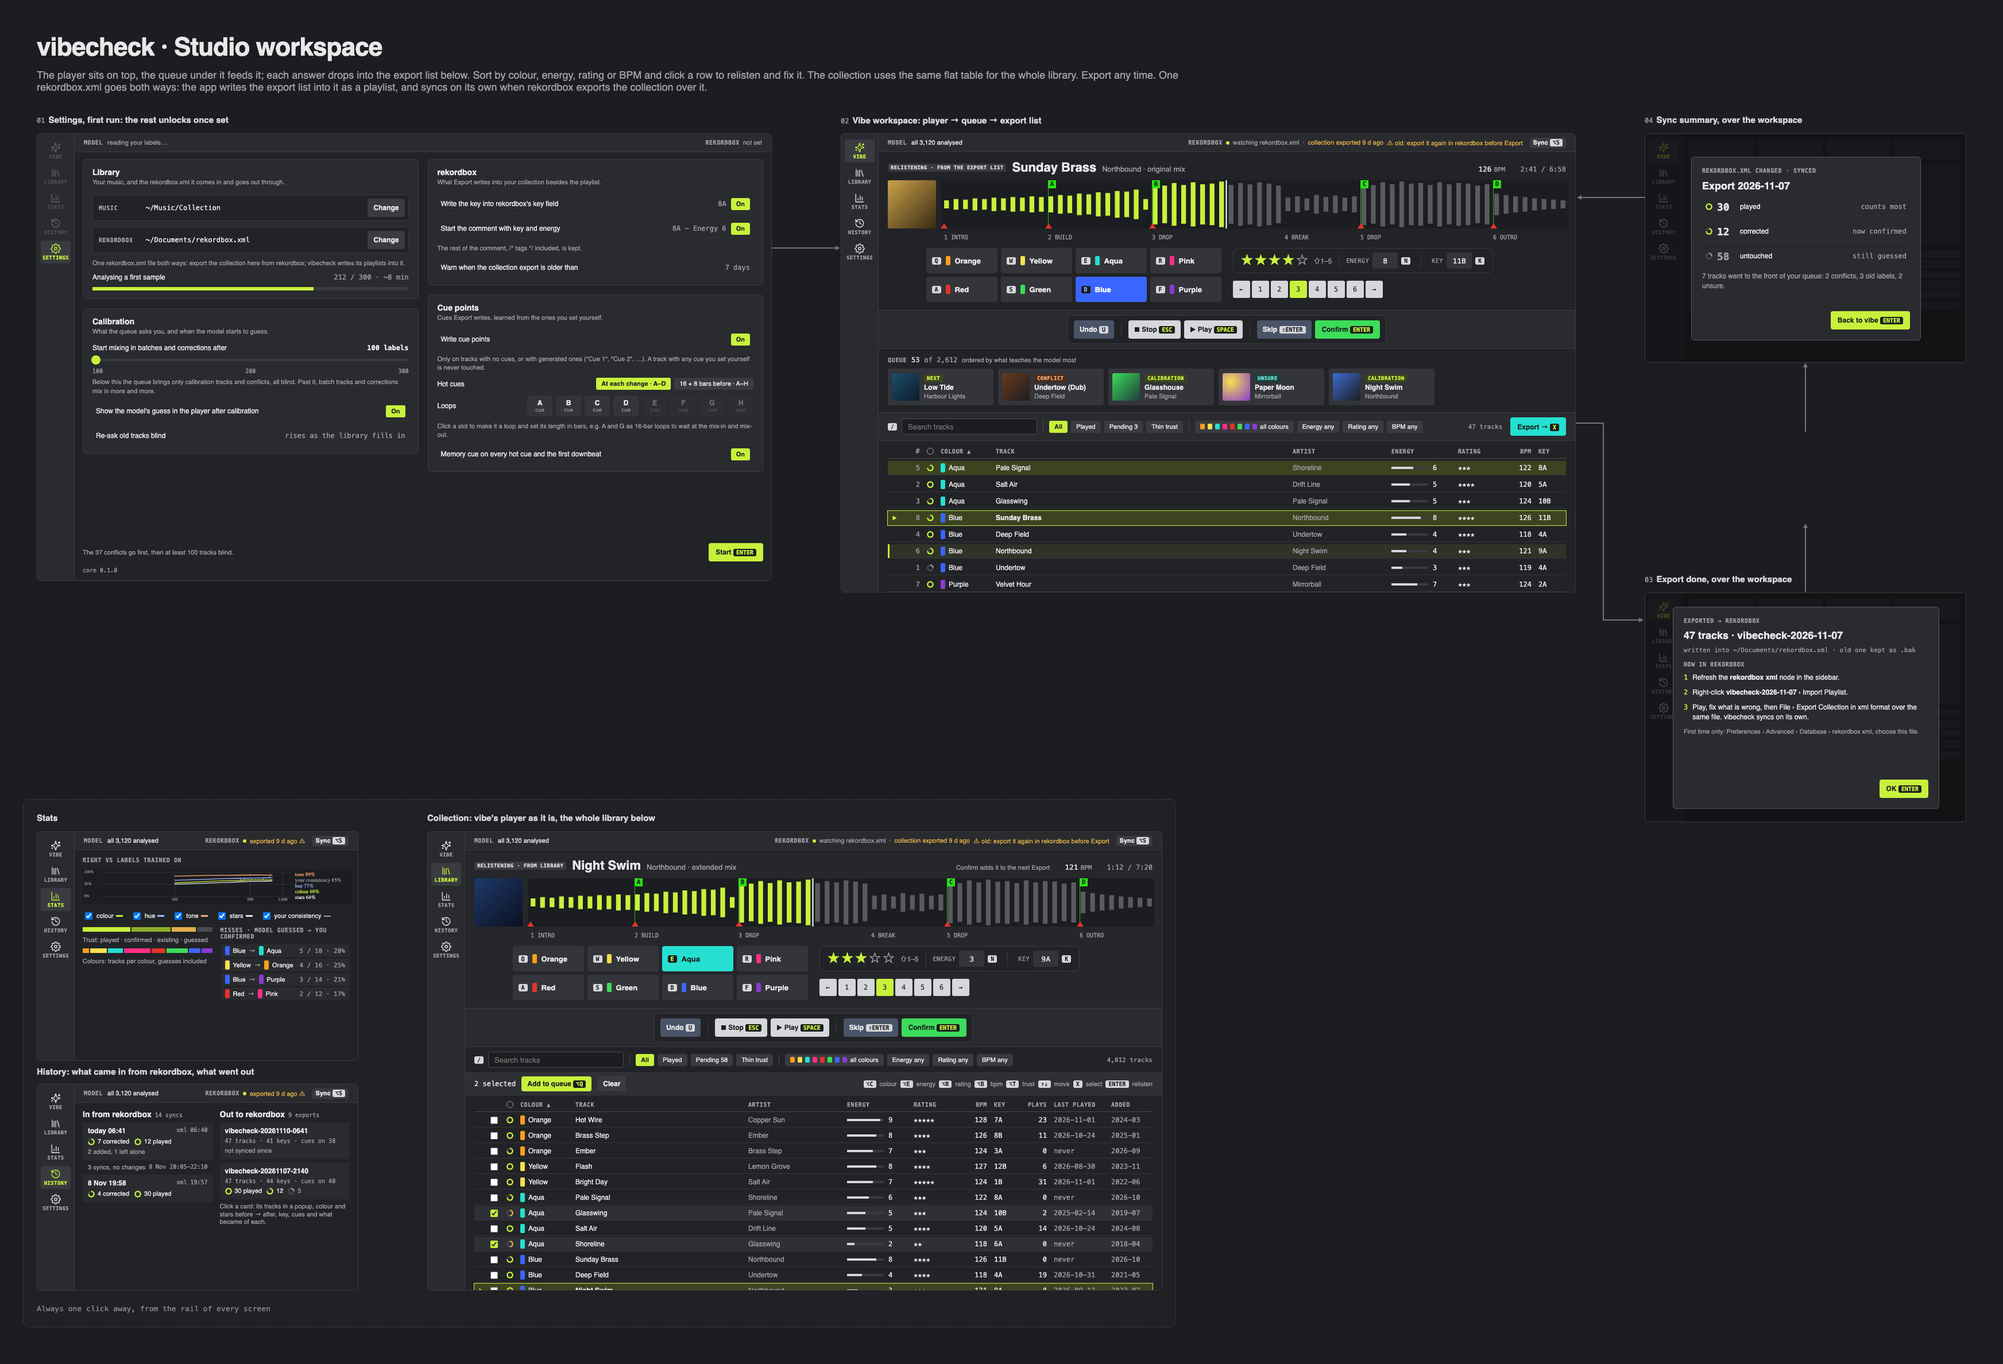
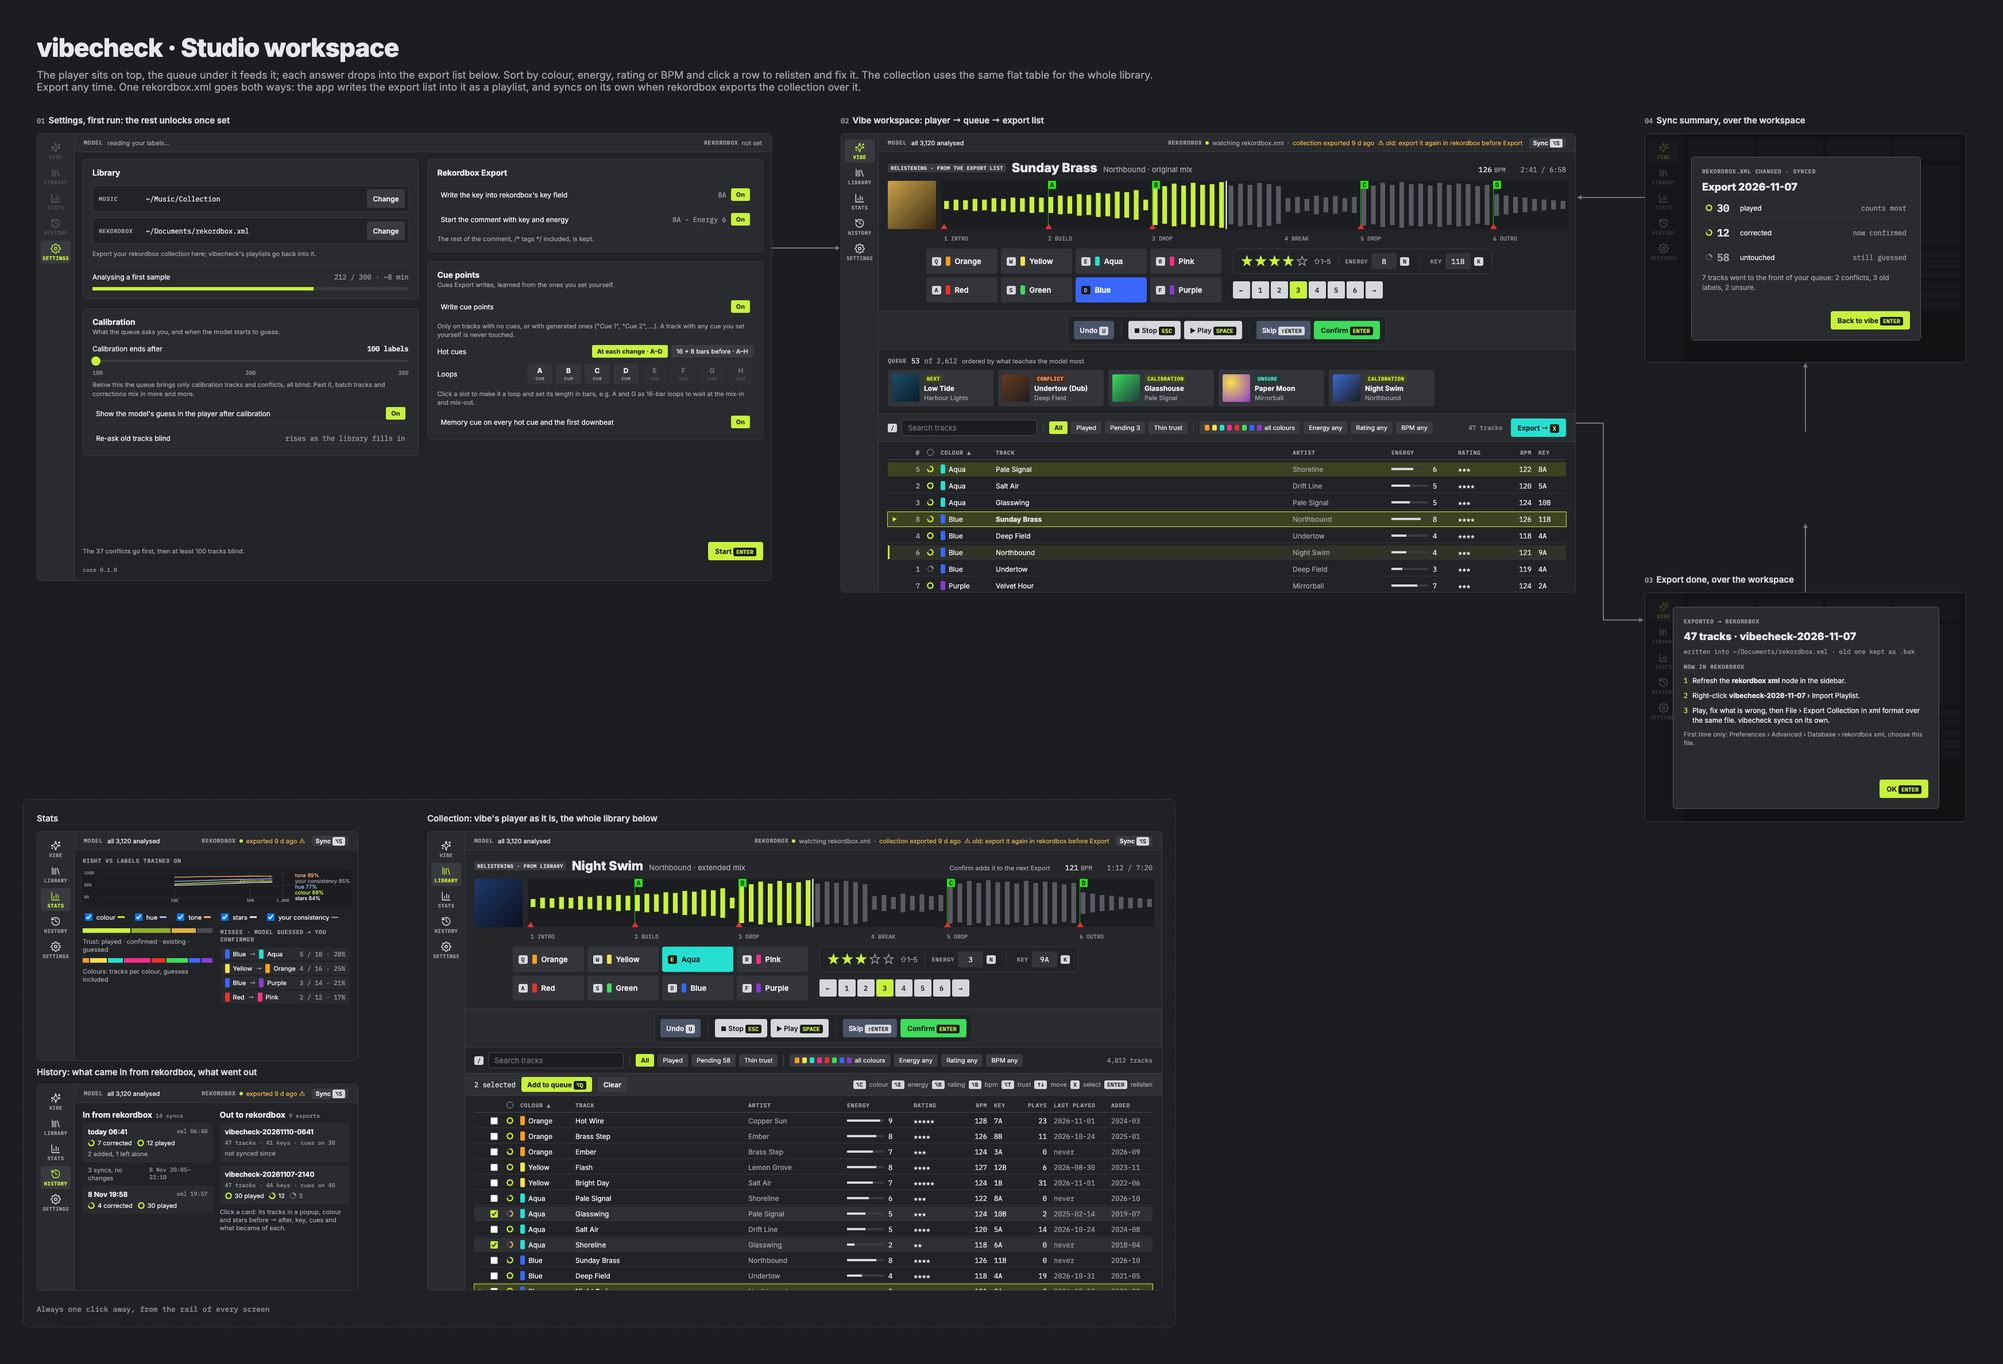
settings: trim library/rekordbox cards; docs: fast track plan
- Library: no subtitle, shorter rekordbox line, hairline before Analysed
- Rekordbox Export: renamed, no subtitle, no export-age setting
- slider titled "Calibration ends after"
- docs/fast-track.md: confident-first queue, trust x rating weights,
  blind cards 1 in 10, filters on the guess

diff --git a/docs/ui/workspace.html b/docs/ui/workspace.html
@@ -122,24 +122,24 @@ a{color:#c8f13c}a:hover{color:#e0ff7a}
 <div class="body" style="gap: 10px">
 <div style="display: grid; grid-template-columns: minmax(0, 1fr) minmax(0, 1fr); gap: 16px; align-items: start">
 <div style="display: flex; flex-direction: column; gap: 16px; min-width: 0">
-<div style="background: #2a2b2f; border: 1px solid #3a3b40; border-radius: 6px; padding: 14px 16px; display: flex; flex-direction: column; gap: 10px"><div style="display: flex; flex-direction: column; gap: 2px; margin-bottom: 4px"><span style="font-size: 14px; font-weight: 700">Library</span><span style="font-size: 11px; line-height: 15px; color: #a0a1a8">Your music, and the rekordbox.xml it comes in and goes out through.</span></div>
+<div style="background: #2a2b2f; border: 1px solid #3a3b40; border-radius: 6px; padding: 14px 16px; display: flex; flex-direction: column; gap: 10px"><div style="display: flex; flex-direction: column; gap: 2px; margin-bottom: 4px"><span style="font-size: 14px; font-weight: 700">Library</span></div>
 <div class="field" style="background: #222327"><span class="lbl" style="width: 72px">Music</span><span class="mono" style="flex: 1">~/Music/Collection</span><button class="btn">Change</button></div>
 <div class="field" style="background: #222327"><span class="lbl" style="width: 72px">rekordbox</span><span class="mono" style="flex: 1">~/Documents/rekordbox.xml</span><button class="btn">Change</button></div>
-<span style="font-size: 11px; line-height: 15px; color: #a0a1a8">One rekordbox.xml file both ways: export the collection here from rekordbox; vibecheck writes its playlists into it.</span>
+<span style="font-size: 11px; line-height: 15px; color: #a0a1a8">Export your rekordbox collection here; vibecheck's playlists go back into it.</span>
+<div style="height: 1px; background: #3a3b40; margin: 2px 0"></div>
 <div style="display: flex; justify-content: space-between; font-size: 12px"><span>Analysing a first sample</span><span class="mono" style="color: #a0a1a8">212 / 300 · ~8 min</span></div>
 <div class="track"><div style="width: 70%; height: 100%; background: #c8f13c"></div></div>
 </div>
-<div style="background: #2a2b2f; border: 1px solid #3a3b40; border-radius: 6px; padding: 14px 16px; display: flex; flex-direction: column; gap: 10px"><div style="display: flex; flex-direction: column; gap: 2px; margin-bottom: 4px"><span style="font-size: 14px; font-weight: 700">Calibration</span><span style="font-size: 11px; line-height: 15px; color: #a0a1a8">What the queue asks you, and when the model starts to guess.</span></div><div style="display: flex; flex-direction: column; gap: 6px"><div style="display: flex; align-items: center; gap: 10px; font-size: 12px"><span>Start mixing in batches and corrections after</span><span class="mono" style="margin-left: auto; font-weight: 600">100 labels</span></div><div style="position: relative; height: 16px"><div style="position: absolute; left: 0; right: 0; top: 6px; height: 4px; background: #3a3b40"></div><div style="position: absolute; left: -2px; top: 0; width: 16px; height: 16px; border-radius: 50%; background: #c8f13c"></div></div><div class="mono" style="display: flex; justify-content: space-between; font-size: 10px; color: #a0a1a8"><span>100</span><span>200</span><span>300</span></div><span style="font-size: 11px; line-height: 16px; color: #a0a1a8">Below this the queue brings only calibration tracks and conflicts, all blind. Past it, batch tracks and corrections mix in more and more.</span></div>
+<div style="background: #2a2b2f; border: 1px solid #3a3b40; border-radius: 6px; padding: 14px 16px; display: flex; flex-direction: column; gap: 10px"><div style="display: flex; flex-direction: column; gap: 2px; margin-bottom: 4px"><span style="font-size: 14px; font-weight: 700">Calibration</span><span style="font-size: 11px; line-height: 15px; color: #a0a1a8">What the queue asks you, and when the model starts to guess.</span></div><div style="display: flex; flex-direction: column; gap: 6px"><div style="display: flex; align-items: center; gap: 10px; font-size: 12px"><span>Calibration ends after</span><span class="mono" style="margin-left: auto; font-weight: 600">100 labels</span></div><div style="position: relative; height: 16px"><div style="position: absolute; left: 0; right: 0; top: 6px; height: 4px; background: #3a3b40"></div><div style="position: absolute; left: -2px; top: 0; width: 16px; height: 16px; border-radius: 50%; background: #c8f13c"></div></div><div class="mono" style="display: flex; justify-content: space-between; font-size: 10px; color: #a0a1a8"><span>100</span><span>200</span><span>300</span></div><span style="font-size: 11px; line-height: 16px; color: #a0a1a8">Below this the queue brings only calibration tracks and conflicts, all blind. Past it, batch tracks and corrections mix in more and more.</span></div>
 <div class="tr" style="height: 32px"><span style="flex: 1">Show the model's guess in the player after calibration</span><span class="chip chon">On</span></div>
 <div class="tr" style="height: 32px; border-bottom: none"><span style="flex: 1">Re-ask old tracks blind</span><span class="mono" style="color: #a0a1a8">rises as the library fills in</span></div>
 </div>
 </div>
 <div style="display: flex; flex-direction: column; gap: 16px; min-width: 0">
-<div style="background: #2a2b2f; border: 1px solid #3a3b40; border-radius: 6px; padding: 14px 16px; display: flex; flex-direction: column; gap: 10px"><div style="display: flex; flex-direction: column; gap: 2px; margin-bottom: 4px"><span style="font-size: 14px; font-weight: 700">rekordbox</span><span style="font-size: 11px; line-height: 15px; color: #a0a1a8">What Export writes into your collection besides the playlist.</span></div>
+<div style="background: #2a2b2f; border: 1px solid #3a3b40; border-radius: 6px; padding: 14px 16px; display: flex; flex-direction: column; gap: 10px"><div style="display: flex; flex-direction: column; gap: 2px; margin-bottom: 4px"><span style="font-size: 14px; font-weight: 700">Rekordbox Export</span></div>
 <div class="tr" style="height: 32px"><span style="flex: 1">Write the key into rekordbox's key field</span><span class="mono" style="color: #a0a1a8">8A</span><span class="chip chon">On</span></div>
 <div class="tr" style="height: 32px"><span style="flex: 1">Start the comment with key and energy</span><span class="mono" style="color: #a0a1a8">8A - Energy 6</span><span class="chip chon">On</span></div>
 <span style="font-size: 11px; line-height: 15px; color: #a0a1a8">The rest of the comment, /* tags */ included, is kept.</span>
-<div class="tr" style="height: 32px; border-bottom: none"><span style="flex: 1">Warn when the collection export is older than</span><span class="mono" style="color: #a0a1a8">7 days</span></div>
 </div>
 <div style="background: #2a2b2f; border: 1px solid #3a3b40; border-radius: 6px; padding: 14px 16px; display: flex; flex-direction: column; gap: 10px"><div style="display: flex; flex-direction: column; gap: 2px; margin-bottom: 4px"><span style="font-size: 14px; font-weight: 700">Cue points</span><span style="font-size: 11px; line-height: 15px; color: #a0a1a8">Cues Export writes, learned from the ones you set yourself.</span></div>
 <div class="tr" style="height: 32px"><span style="flex: 1">Write cue points</span><span class="chip chon">On</span></div>

diff --git a/docs/fast-track.md b/docs/fast-track.md
@@ -1,0 +1,155 @@
+# Fast track
+
+*2026-11-12. Idea, to plan.*
+
+The vibe queue today is a training queue: it asks what teaches the model
+most, which is also the slowest for the user to get through. Once the model
+is good enough, a **fast track** would do the opposite: offer the tracks the
+model is most sure about, so the user mostly listens and confirms, and gets
+the library into rekordbox quickly.
+
+## How the queue works today
+
+`queue()` in `core/src/app.rs`. Nothing is random.
+
+- **Below the threshold** (default 100 of your labels, slider 100–300), and
+  also while fewer than 20 labelled tracks are analysed: only calibration
+  tracks, blind. Each pick is the track that sounds most different from
+  everything labelled and already picked (`spread`).
+- **From the threshold on**, three lists:
+  - **unsure**: least sure first (hue × tone probability), shown with the
+    model's guess;
+  - **conflict**: your label, while the model is at least 50% sure of another
+    colour; most sure first, blind;
+  - **old label**: a colour from before vibecheck you never confirmed, the
+    model at least 50% sure of another; most sure first, blind.
+- **Mix** by queue position: every 5th place (3rd, 8th, …) is a conflict;
+  every 7th place (5th, 12th, …) is an old label unless a conflict holds it;
+  everything else is unsure. Over 35 tracks: 7 conflicts (20%), 4 old labels
+  (about 11%), 24 unsure (about 69%). When a list runs out, its places go to
+  the next one.
+- The settings slider is titled "Calibration ends after" for this reason:
+  past it nothing is mixed in, the queue switches over.
+
+## Why it works
+
+- Confident guesses are mostly right: a short listen and Confirm.
+- They teach the model almost nothing, which is why the training queue never
+  shows them. So the fast track costs the model little and gets the library
+  done faster: a second phase, from teaching the model to checking it.
+
+## Risks, and what was decided
+
+1. **Anchoring.** Seeing the guess before deciding pulls the judgement
+   toward it: you accept a colour you'd not have picked blind, and the more
+   often the guess is right, the less you listen. `user-flows.md` (research
+   section) cites studies finding exactly this, without people getting
+   faster; hence "ask blind first". The fast track shows the guess on
+   purpose, so expect rubber-stamping, mostly on confident-but-wrong tracks.
+   - Blind re-asks **detect** it, they don't prevent it: re-ask fast-track
+     confirms blind now and then; the disagreement rate between confirm and
+     re-ask is the anchoring gauge. If it climbs, the fast track slows itself
+     down (more blind cards, or pause).
+2. **The model learning its own guesses back.** A plain Confirm of a shown
+   guess gets less than a blind label. A correction keeps full weight: a fix
+   against a confident guess is the most valuable signal there is. See
+   *Weights* below.
+3. **Inflated accuracy.** Confirms made with the guess shown would push the
+   measured accuracy up. Weighting doesn't help (it changes training, not the
+   stat). Decided: **accuracy is measured from blind cards only**
+   (calibration, conflicts, old labels, re-asks, and the blind cards mixed
+   into the fast track). Fast-track confirms never enter it.
+4. **Unlock by measured accuracy, not by count.** Agreed. Unlock once
+   confident guesses are measurably right: lower end of the Wilson interval
+   (`wilson()` in `app.rs`) on confident blind guesses ≥ 90%. A messy library
+   unlocks later, a consistent one sooner; some may get it well before 500
+   labels.
+5. **Keep measuring.** Agreed. Mix in a blind card at a **fixed rate, 1 in
+   10**, in the spirit of "re-ask old tracks now and then" (`user-flows.md`,
+   rule 3), so drift still shows and point 3 keeps its data. Log the anchoring
+   gauge from the start; let it drive the rate (fewer when low, more or a pause
+   when high) only once data shows it actually moves. Start simple, tune from
+   evidence, as with the weights.
+
+## Weights: trust × rating
+
+Trust weights are not in core yet; `user-flows.md` has the proposal. This
+replaces it with a product of two factors.
+
+**Trust.** The fast track adds one row.
+
+| trust | value |
+|---|---|
+| 4 played | 1.0 |
+| 3 confirmed blind, or corrected (also in the fast track) | 0.7 |
+| 3 fast-track confirm (guess shown, kept) | 0.5 |
+| 2 existing label | 0.3 |
+| 1 guessed | 0.2 |
+
+**Rating.** The user is sloppier with tracks they care less about, so the
+whole label act on a low-rated track (colour and stars both) counts less.
+`0.5 + 0.1 × stars`, mild on purpose: low-rated tracks often sound different
+(filler, tools) and the model still needs examples of them. No stars is not
+unknown: in rekordbox 0★ is unrated, so a colour without stars is a half-done
+label, the sloppiest signal, and sits at the bottom. In the app Confirm always
+carries a rating, so 0★ labels are mostly existing ones from rekordbox.
+
+| rating | × |
+|---|---|
+| 5★ | 1.0 |
+| 4★ | 0.9 |
+| 3★ | 0.8 |
+| 2★ | 0.7 |
+| 1★ | 0.6 |
+| none (0★) | 0.5 |
+
+So a 1★ fast-track confirm lands at 0.3, the same as an untouched existing
+label; a 0★ one at 0.25, just above a bare guess; a 5★ correction at 0.7;
+played stays the ceiling however the label got there.
+
+**Universal.** The multiplier applies to every level, corrections included:
+one line, `weight = trust[level] × rating[stars]`. Trust says how deliberate
+the act was, rating how much the user cares about the track; a careless flip
+of a 1★ colour is still careless. The product keeps the order that matters
+within a band (1★: correction 0.42 > fast-track confirm 0.3 > existing 0.18),
+and the one cross-band case, a 1★ correction (0.42) under a 5★ confirm (0.5),
+is fine: 5★ tracks are the ones the user knows best.
+
+**Tune from data.** Re-ask consistency per rating band shows whether the user
+really is sloppier on 1–2★. If they agree with themselves as often on 2★ as
+on 5★, flatten the multiplier; if corrections turn out as consistent on 1★ as
+on 5★, flatten it for level ≥ 3 only, with that evidence.
+
+## Group and filter by guess
+
+Agreed, and the biggest accelerator. The user's own flow already is: sort the
+export list by colour / rating and go over it once or twice. Do that before
+export: put the library's filter row (`filters.gd`: colour, energy, rating,
+BPM chips) over the queue when the fast track is on, applied to the model's
+**guess**, since these tracks have no label yet. "Guessed Aqua, guessed 4–5★"
+keeps one mood, which makes deciding faster, and a track that doesn't fit its
+group stands out (the outlier pass, `user-flows.md` rule 4).
+
+## UI
+
+- A toggle in front of QUEUE on the vibe screen switches the queue.
+- The line next to it changes with it, e.g. "ordered by what teaches the model
+  most" ↔ "Fast track: most sure first, confirm or fix".
+- Locked: the toggle is dimmed, with a muted hint on what unlocks it.
+- The filter row over the queue when the fast track is on.
+- Card tags: "SURE 94%" in place of UNSURE / CONFLICT. The blind card gets its
+  own tag, **blind**, like conflict and unsure, and like them it's clickable:
+  the tag popup (`WHY` in `player.gd`) gets a row for it, e.g. "a check card:
+  asked blind so your answer stays your own, and the model's accuracy stays
+  honest" / "Pick its colour and stars as if there were no guess."
+
+## Open questions
+
+- [x] Unlock: measured confident accuracy (Wilson lower bound ≥ 90%).
+- [x] Weight of a fast-track Confirm: trust 0.5, × rating.
+- [x] Blind checks inside the fast track: yes, about 1 in 10–20.
+- [x] Group by guessed colour: yes, the library's filters applied to the guess.
+- [x] Rating multiplier: universal, corrections included.
+- [x] Blind-card rate: fixed 1 in 10 first; gauge-driven later, with data.
+- [x] Settings slider retitled "Calibration ends after": past it the queue switches
+      over (about 69% unsure, 20% conflicts, 11% old labels), nothing is mixed in.

diff --git a/docs/ui/decisions.md b/docs/ui/decisions.md
@@ -449,8 +449,9 @@ waveform and charts darker still (`#1c1d20`); dialogs and popups unchanged.
 
 - **Two columns**, so lines don't stretch across a wide window: the
   collection and the model on the left (Library, Calibration), what goes into
-  rekordbox on the right (rekordbox, Cue points). The intro and Start span both.
-- **Each group on its own card**, titled, with one line on what it is for, so
+  rekordbox on the right (Rekordbox Export, Cue points). Start spans both.
+- **Each group on its own card**, titled, with one line on what it is for where
+  that isn't plain (none on Library or Rekordbox Export), so
   a new user sees four groups rather than a wall of settings. Fields inside a
   card sit darker. No "Settings" title row and no intro line: the
   rail says where you are, and its dimmed screens that they wait on setup. The core version sits in small type under Start.
@@ -458,15 +459,16 @@ waveform and charts darker still (`#1c1d20`); dialogs and popups unchanged.
   one file is used both ways.
 - The progress of analysing the collection. No count tiles: the status row
   and stats carry those.
-- The calibration threshold, 100–300.
+- The calibration threshold, 100–300 ("Calibration ends after"): past it the
+  queue switches from calibration tracks to unsure, conflicts and old labels.
 - Show the model's guess in the player after calibration (On).
 - Re-ask old tracks blind (rises as the library fills in).
-- **rekordbox**
+- **Rekordbox Export**
   - Write the key into rekordbox's key field ("8A"): `[rekordbox] write_tonality`.
   - Start the comment with key and energy ("8A - Energy 6"); the rest of the
     comment, /* tags */ included, is kept: `[rekordbox] write_comment`.
-  - Warn when the collection export is older than 7 days. This one is new and
-    not in the config yet.
+  - No setting for how old the collection export may be: past 7 days
+    (`warn_days`) the status row warns, and it always shows the export's age.
 - **Cue points**
   - Write cue points (`[cues] write`). They go only on tracks with no cues or
     with generated ones; a track with any cue you set yourself is never touched.
